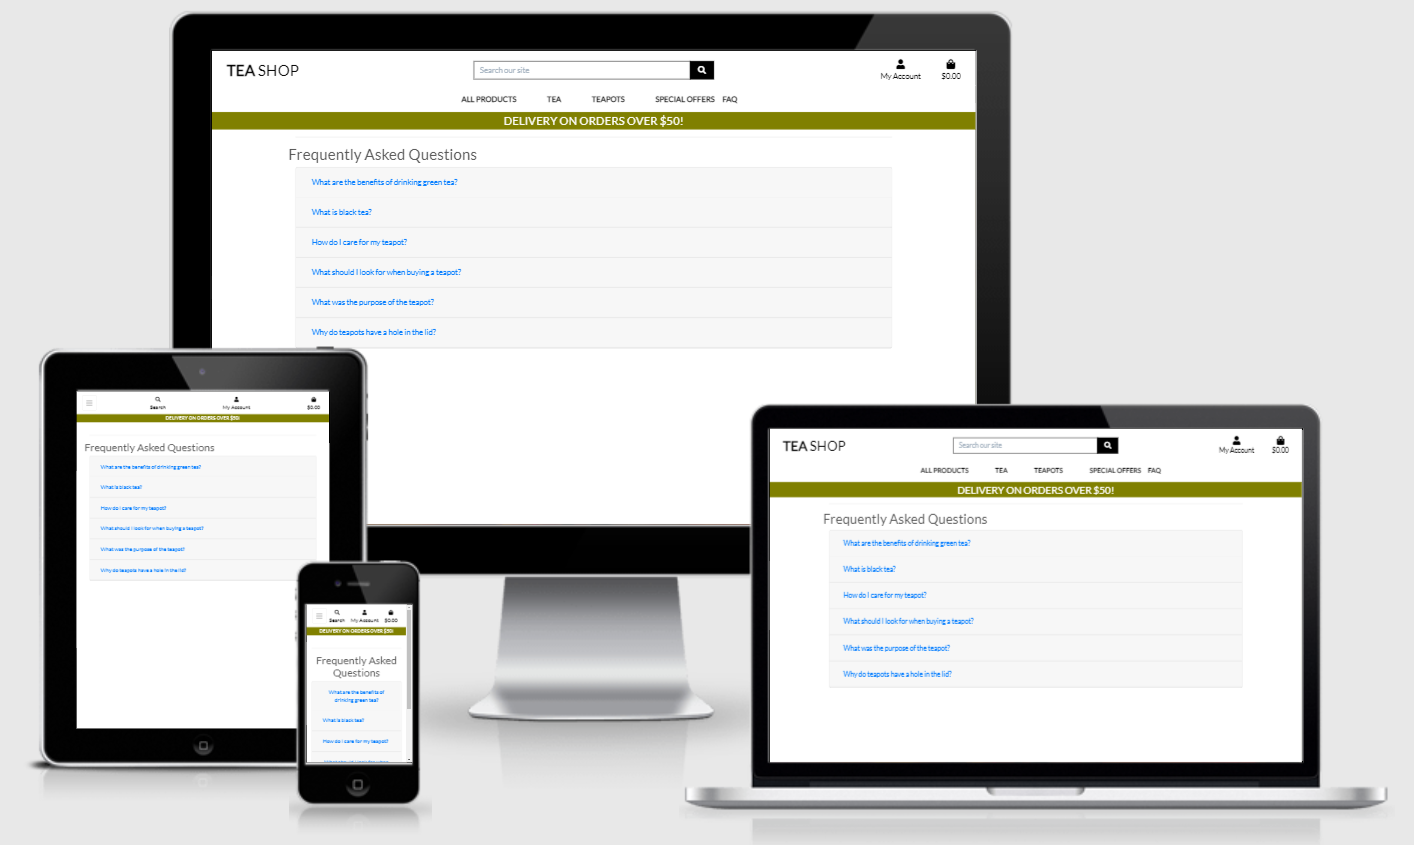
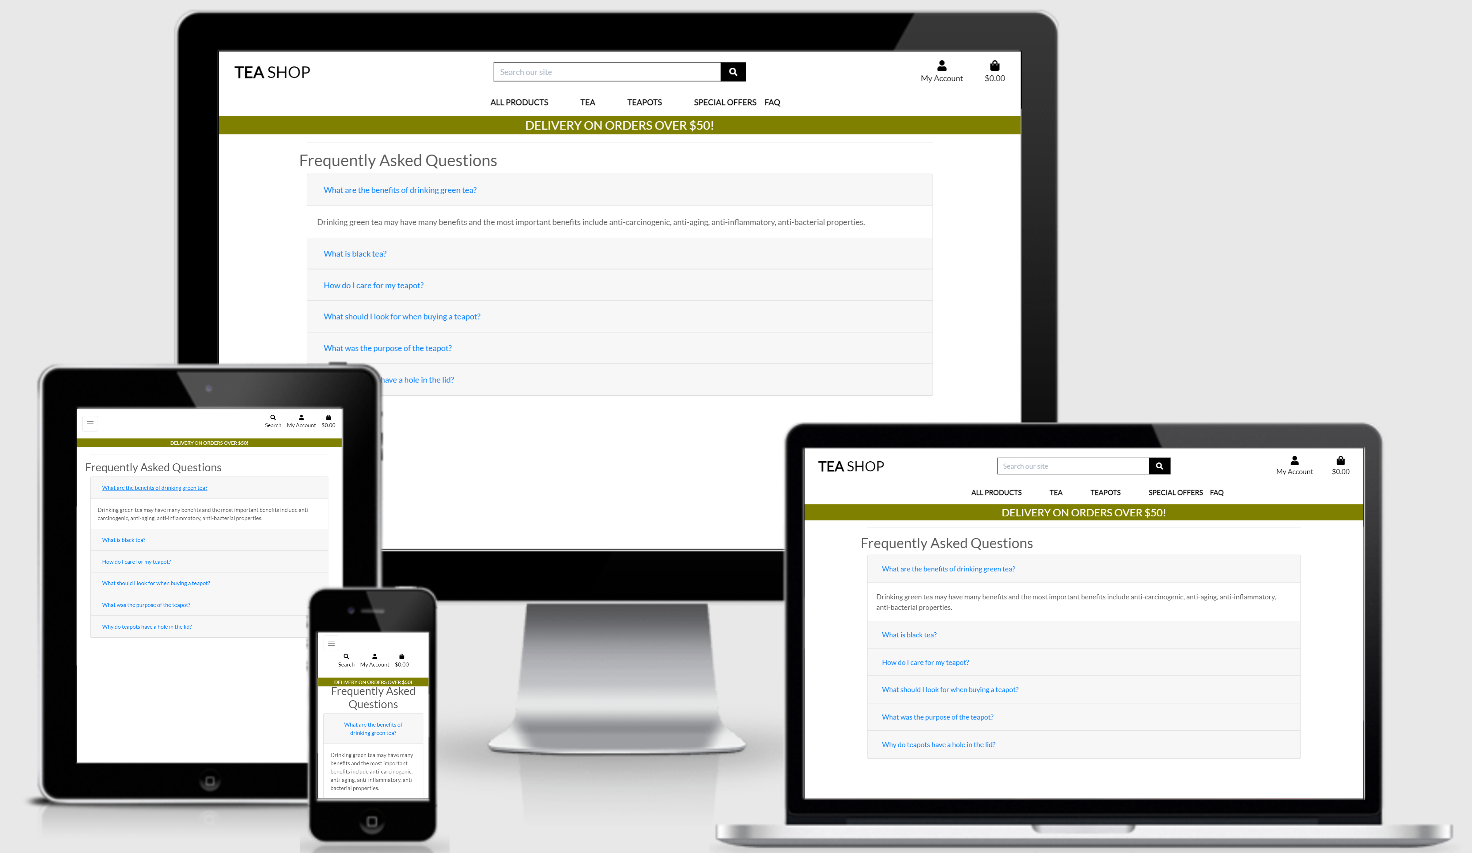
Added Testing.md

Changed region(s): [[0.0, 0.0308, 0.9958, 1.0], [0.1245, 0.0, 0.7157, 0.0615], [0.1556, 0.0615, 0.2178, 0.0923]]

diff --git a/faq/templates/faq/faq.html b/faq/templates/faq/faq.html
@@ -16,7 +16,7 @@
    <hr>
    <div class="row">
       <div class="center-align">
-         <h2 style="text-align:center;">Frequently Asked Questions</h2>
+         <h2>Frequently Asked Questions</h2>
       </div>
    </div>
 
@@ -39,24 +39,6 @@
             </div>
          {%endfor%}
       </div>      
-   </div>   
-
-   <!-- <div class="row">
-      <div class="center-align">
-         <ul class="collapsible">
-            {% for f in faq %}
-            <li>
-               <div class="collapsible-header">{{f.question}}</div>
-               <div class="collapsible-body"><span>{{f.answer}}</span></div>
-            </li>
-            {%endfor%}
-         </ul>
-      </div>
-   </div> -->
+   </div>
 </div>
 {% endblock %}
-
-<!-- {% block postloadjs %}
-{{ block.super }}
-<script type="text/javascript" src="{% static 'js/faq.js' %}"></script>
-{% endblock %} -->

diff --git a/products/templates/products/products.html b/products/templates/products/products.html
@@ -85,7 +85,7 @@
                                             {% if request.user.is_superuser %}
                                                 <small class="ml-3">
                                                     <a href="{% url 'edit_product' product.id %}">Edit</a> | 
-                                                    <a class="text-danger" href="{% url 'delete_product' product.id %}">Delete</a>
+                                                    <a class="text-danger" href="{% url 'delete_product' product.id %}">Delete</a>                                                    
                                                 </small>
                                             {% endif %}
                                         </div>

diff --git a/products/templates/products/product_detail.html b/products/templates/products/product_detail.html
@@ -45,7 +45,7 @@
                     {% if request.user.is_superuser %}
                         <small class="ml-3">
                             <a href="{% url 'edit_product' product.id %}">Edit</a> | 
-                            <a class="text-danger" href="{% url 'delete_product' product.id %}">Delete</a>
+                            <a class="text-danger" href="{% url 'delete_product' product.id %}">Delete</a>                            
                         </small>
                     {% endif %}
                     <p class="mt-3">{{ product.description }}</p>

diff --git a/README.md b/README.md
@@ -1,15 +1,14 @@
 ## MS4 - Tea Shop ##
----
+
 Tea Shop is a ecommence store for Tea lovers. The website was created by following the basic structure of Boutique Ado with two added models of customer reviews and FAQ.
 
 The website can be access [here](https://ms4-teashop.herokuapp.com/)
 
 ## Project Summary
----
+
 The goal of this project was to create a ecommence website where users can purchase  products in this online store. Users also have abilities to create an account, add, edit and delete products, write reviews and view FAQ.
 
 ## UX 
----
 
 *User Stories*
 
@@ -46,7 +45,7 @@ The goal of this project was to create a ecommence website where users can purch
 * Easily delete a product
 
 ## 5S's
----
+
 
 *Strategy*
 
@@ -94,7 +93,7 @@ Form for users to login if existing user or signup if new user.
 For registered users, shows personal details and order history.
 
 ## Skeleton ##
----
+
 **Wireframes**
 
 Click[here](/assets/wireframes/MS4_wireframes.pdf) to open wireframes.
@@ -104,11 +103,11 @@ Click[here](/assets/wireframes/MS4_wireframes.pdf) to open wireframes.
 ![here](/assets/data_schema/data_schema.png) 
 
 ## Surface ##
----
+
 This website uses simple color scheme with black, white, and olive.
 
-## Features ##
----
+## Features #
+
 **Existing**
 
 Navigation Bar
@@ -159,11 +158,12 @@ FAQs page
 
 Due to the time constraints and the scope of the project I could not do too much to the project. That leaves lots of room for improvment. For the future I would like to add 
 - More customized design to the project
+- Add confirmation when delete a product
 - Add a contact form 
 - Add a blog
 
 ## Technologies Used ##
----
+
 Languages:
 - HTML5 - define the structure and layout of the web page
 - CSS3 - style the web document elements
@@ -204,95 +204,11 @@ Testing tools
 - [PEP8](http://pep8online.com/) - is used to check Python code.
 
 ## Testing ##
----
-**Responsiveness**
 
-This website was tested on multiple mobile, tablet, laptop and desktop devices for responsiveness. 
-
-![image](/assets/responsive/responsive_home.png)
-
-![image](/assets/responsive/responsive_products.png)
-
-![image](/assets/responsive/responsive_product_details.png)
-
-![image](/assets/responsive/responsive_products_all_teapots.png)
-
-![image](/assets/responsive/responsive_sign_in.png)
-
-![image](/assets/responsive/responsive_sign_up.png)
-
-![image](/assets/responsive/responsive_faq.png)
-
-![image](/assets/responsive/ms4_responsive_faq2.png)
-
-![image](/assets/responsive/ms4-responsive1.png) 
-
-![image](/assets/responsive/ms4-responsive2.png) 
-
-**Browser Compatibility**
-
-Compatibility of the site was tested on Google Chrome, Microsoft Edge and Firefox.
-
-![image](/assets/responsive/ms4-browser-compatibility.png) 
-
-**Code Validation**
-
-HTML code is validated through [W3 validator](https://validator.w3.org/nu/#textarea). Two errors were found. 
-
-1. Error: Element li not allowed as child of element nav in this context. (Suppressing further errors from this subtree.) 
-2. Error: Duplicate ID
-
-![image](/assets/validation/two_errors.png)
-
-Both errors were corrected by adding ul and changed second ID value.
-
-![image](/assets/validation/html_validation.png)
-
-![image](/assets/validation/home_validation.png)
-
-![image](/assets/validation/products_validation.png)
-
-![image](/assets/validation/product_detail_validation.png)
-
-![image](/assets/validation/product_add_validation.png)
-
-![image](/assets/validation/product_edit_validation.png)
-
-![image](/assets/validation/login_validation.png)
-
-![image](/assets/validation/logout_validation.png)
-
-![image](/assets/validation/profile_validation.png)
-
-![image](/assets/validation/shoppin_bag_validation.png)
-
-![image](/assets/validation/admin_validation.png)
-
-CSS code is validated through [W3 validator](https://validator.w3.org/nu/#textarea). No error found.
-
-![image](/assets/validation/css_validation.png)
-
-base.css
-
-![image](/assets/validation/base_css.png)
-
-profile.css
-
-![image](/assets/validation/profile_css.png)
-
-checkout.css
-
-![image](/assets/validation/checkout_css.png)
-
-JavaScript code is validated through [JShint](https://jshint.com/). No error found.
-
-![image](/assets/validation/jshint_js.png)
-
-Python code is validated through [PEP8](http://pep8online.com/). No error found.
-
+The testing process can be found [here](Testing.md).
 
 ## Deployment ##
----
+
 **Requirements**
 - Python3
 - Github account
@@ -360,7 +276,7 @@ Read more about the the S3 Bucket storage [here](https://aws.amazon.com/s3/). Fo
 
 
 ## Credits ##
----
+
 **Content/media**
 
 All product images and product descriptions were downloaded online from various websites. 
@@ -370,7 +286,5 @@ All product images and product descriptions were downloaded online from various 
 I have used the code from Code Institute Boutique Ado Project as a base of my project.
 
 ## Acknowledgments ##
----
+
 I would like to thank my mentor Precious Ijege for his support, help, patience and encouragements. I am also grateful for the helps from tutors and slack members.
-
-

diff --git a/Testing.md b/Testing.md
@@ -1,0 +1,100 @@
+## Testing ##
+
+**Responsiveness**
+
+This website was tested on multiple mobile, tablet, laptop and desktop devices for responsiveness. 
+
+![image](/assets/responsive/responsive_home.png)
+
+![image](/assets/responsive/responsive_products.png)
+
+![image](/assets/responsive/responsive_product_details.png)
+
+![image](/assets/responsive/responsive_products_all_teapots.png)
+
+![image](/assets/responsive/responsive_sign_in.png)
+
+![image](/assets/responsive/responsive_sign_up.png)
+
+![image](/assets/responsive/responsive_faq.png)
+
+![image](/assets/responsive/ms4_responsive_faq2.png)
+
+![image](/assets/responsive/ms4-responsive1.png) 
+
+![image](/assets/responsive/ms4-responsive2.png) 
+
+**Browser Compatibility**
+
+Compatibility of the site was tested on Google Chrome, Microsoft Edge and Firefox.
+
+![image](/assets/responsive/ms4-browser-compatibility.png) 
+
+**Code Validation**
+
+HTML code is validated through [W3 validator](https://validator.w3.org/nu/#textarea). Two types of error were found. 
+
+1. Error: Element li not allowed as child of element nav in this context. (Suppressing further errors from this subtree.) 
+2. Error: Duplicate ID
+
+![image](/assets/validation/two_errors.png)
+
+![image](/assets/validation/faq_validation_error.png)
+
+All errors were corrected. 
+
+![image](/assets/validation/html_validation.png)
+
+![image](/assets/validation/home_validation.png)
+
+![image](/assets/validation/products_validation.png)
+
+![image](/assets/validation/product_detail_validation.png)
+
+![image](/assets/validation/product_add_validation.png)
+
+![image](/assets/validation/product_edit_validation.png)
+
+![image](/assets/validation/login_validation.png)
+
+![image](/assets/validation/logout_validation.png)
+
+![image](/assets/validation/profile_validation.png)
+
+![image](/assets/validation/shoppin_bag_validation.png)
+
+![image](/assets/validation/admin_validation.png)
+
+![image](/assets/validation/faq_validation_no_error.png)
+
+CSS code is validated through [W3 validator](https://validator.w3.org/nu/#textarea). No error found.
+
+![image](/assets/validation/css_validation.png)
+
+base.css
+
+![image](/assets/validation/base_css.png)
+
+profile.css
+
+![image](/assets/validation/profile_css.png)
+
+checkout.css
+
+![image](/assets/validation/checkout_css.png)
+
+JavaScript code is validated through [JShint](https://jshint.com/). No error found.
+
+![image](/assets/validation/jshint_js.png)
+
+Python code is validated through [PEP8](http://pep8online.com/). No error found.
+
+##Bug Fixed##
+
+Accordion on FAQ page was not working. Clicking one question all the answers opened up.
+
+![image](/assets/responsive/ms4_responsive_faq2.png)
+
+With tutor Michael's help by adding f.pk as unique id now accordion works properly. 
+
+![image](/assets/responsive/responsive_faq.png)
